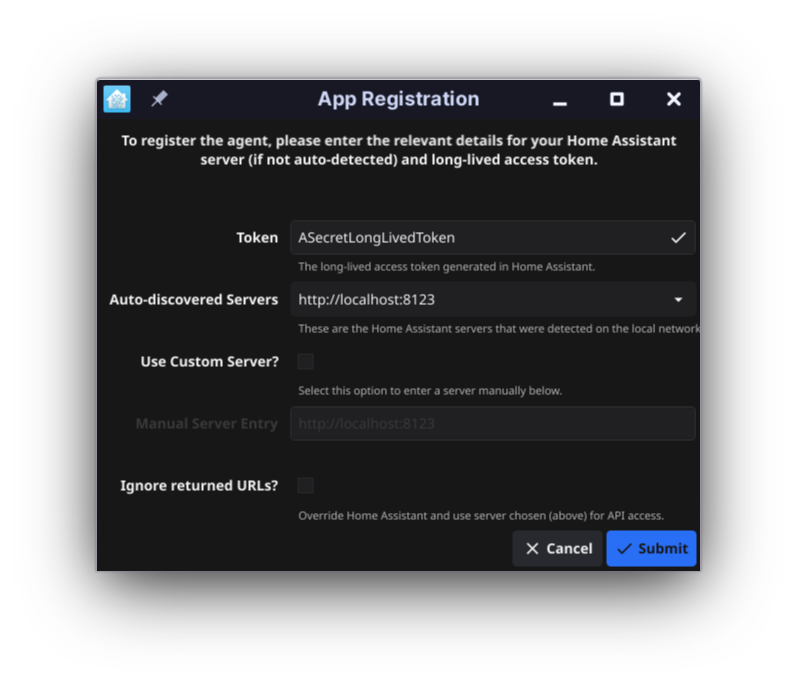
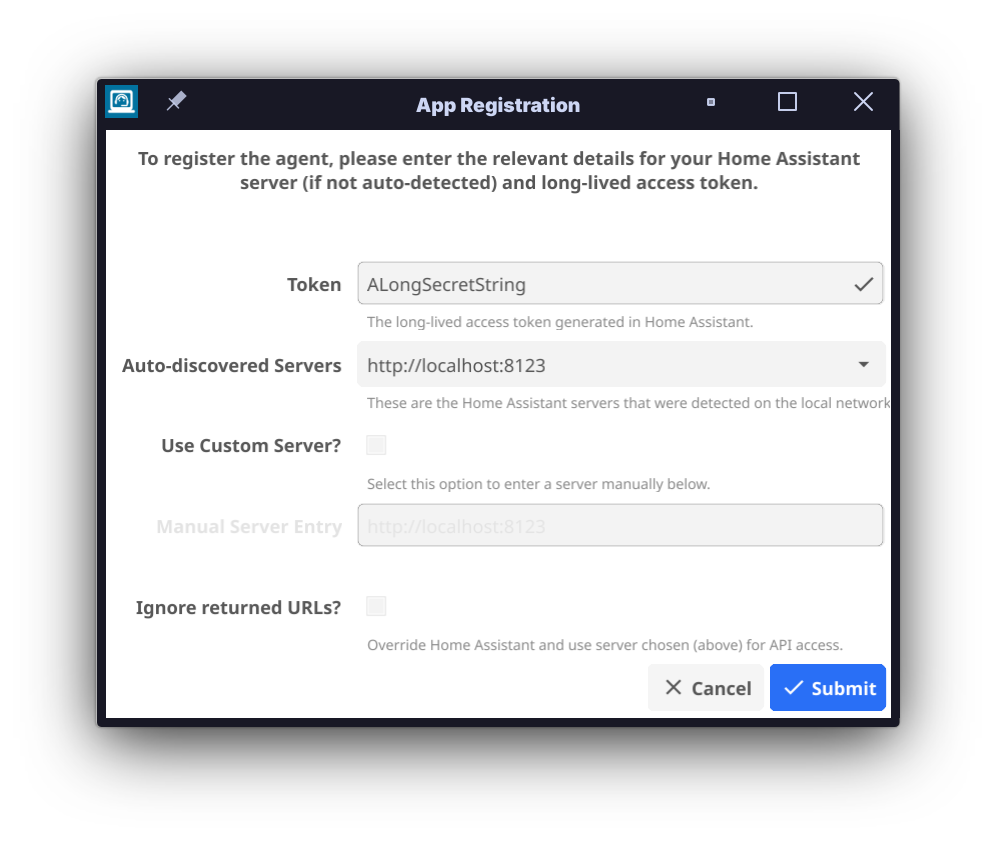
docs: :memo: small docs adjustments
- update the registration window screenshot
- add/fix links in BREAKING_CHANGES

diff --git a/docs/BREAKING_CHANGES.md b/docs/BREAKING_CHANGES.md
@@ -39,9 +39,9 @@ After you have installed the new version of Go Hass Agent:
 
 1. Open a terminal.
 2. Run `go-hass-agent upgrade`
-3. If the upgrade command reports the upgrade was successful, great news! You can run
-   proceed to reviewing the remaining breaking changes and performing required
-   actions as applicable.
+3. If the upgrade command reports the upgrade was successful, great news! You
+   can run proceed to reviewing the [remaining breaking
+   changes](#table-of-contents) and performing required actions as applicable.
 4. If the upgrade command reports an error. You'll need to proceed with the
    [manual steps](#manual-upgrade-steps-if-the-upgrade-command-failed).
 
@@ -52,8 +52,7 @@ After you have installed the new version of Go Hass Agent:
 > You only need to perform the manual upgrade steps here if the [upgrade
 > command](#run-the-upgrade-command) failed.
 
-These changes will require re-registering ([see below](#what-you-need-to-do))
-after upgrading.
+These changes will require re-registering (see below) after upgrading.
 
 > [!NOTE]
 >
@@ -66,25 +65,26 @@ after upgrading.
 
 To re-register:
 
-1. Stop Go Hass Agent if already running.
-2. Open your Home Assistant ***mobile_app*** integrations page:
+1. Upgrade Go Hass Agent.
+2. Stop Go Hass Agent if already running.
+3. Open your Home Assistant ***mobile_app*** integrations page:
 
    [![Open your Home Assistant instance to the mobile_app
   integration.](https://my.home-assistant.io/badges/integration.svg)](https://my.home-assistant.io/redirect/integration/?domain=mobile_app)
 
-3. Locate the entry for your existing Go Hass Agent device. It should be named
+4. Locate the entry for your existing Go Hass Agent device. It should be named
    the same as the hostname of the device it is running on.
-4. Click on the menu (three vertical dots) at the right of the entry:
+5. Click on the menu (three vertical dots) at the right of the entry:
 
    ![Delete Agent Example](../assets/screenshots/delete-from-mobile-app-integrations.png)
 
-5. Choose **Delete**.
-6. Follow the [first-run instructions](../README.md#-first-run) in the README to
+6. Choose **Delete**.
+7. Follow the [first-run instructions](../README.md#-first-run) in the README to
    re-register the agent.
-7. Once the agent has successfully re-registered, you can remove the old
+8. Once the agent has successfully re-registered, you can remove the old
    configuration directory and its contents. The old location will be
    `~/.config/com.joshuar.go-hass-agent.debug`.
-8. If you previously configured MQTT in Go Hass Agent, you will need to
+9. If you previously configured MQTT in Go Hass Agent, you will need to
    [re-enable](../README.md#configuration) MQTT after re-registering.
    - For users with headless installs, you'll need to edit `preferences.toml`
      and manually add the appropriate config options. Add a section in the file
